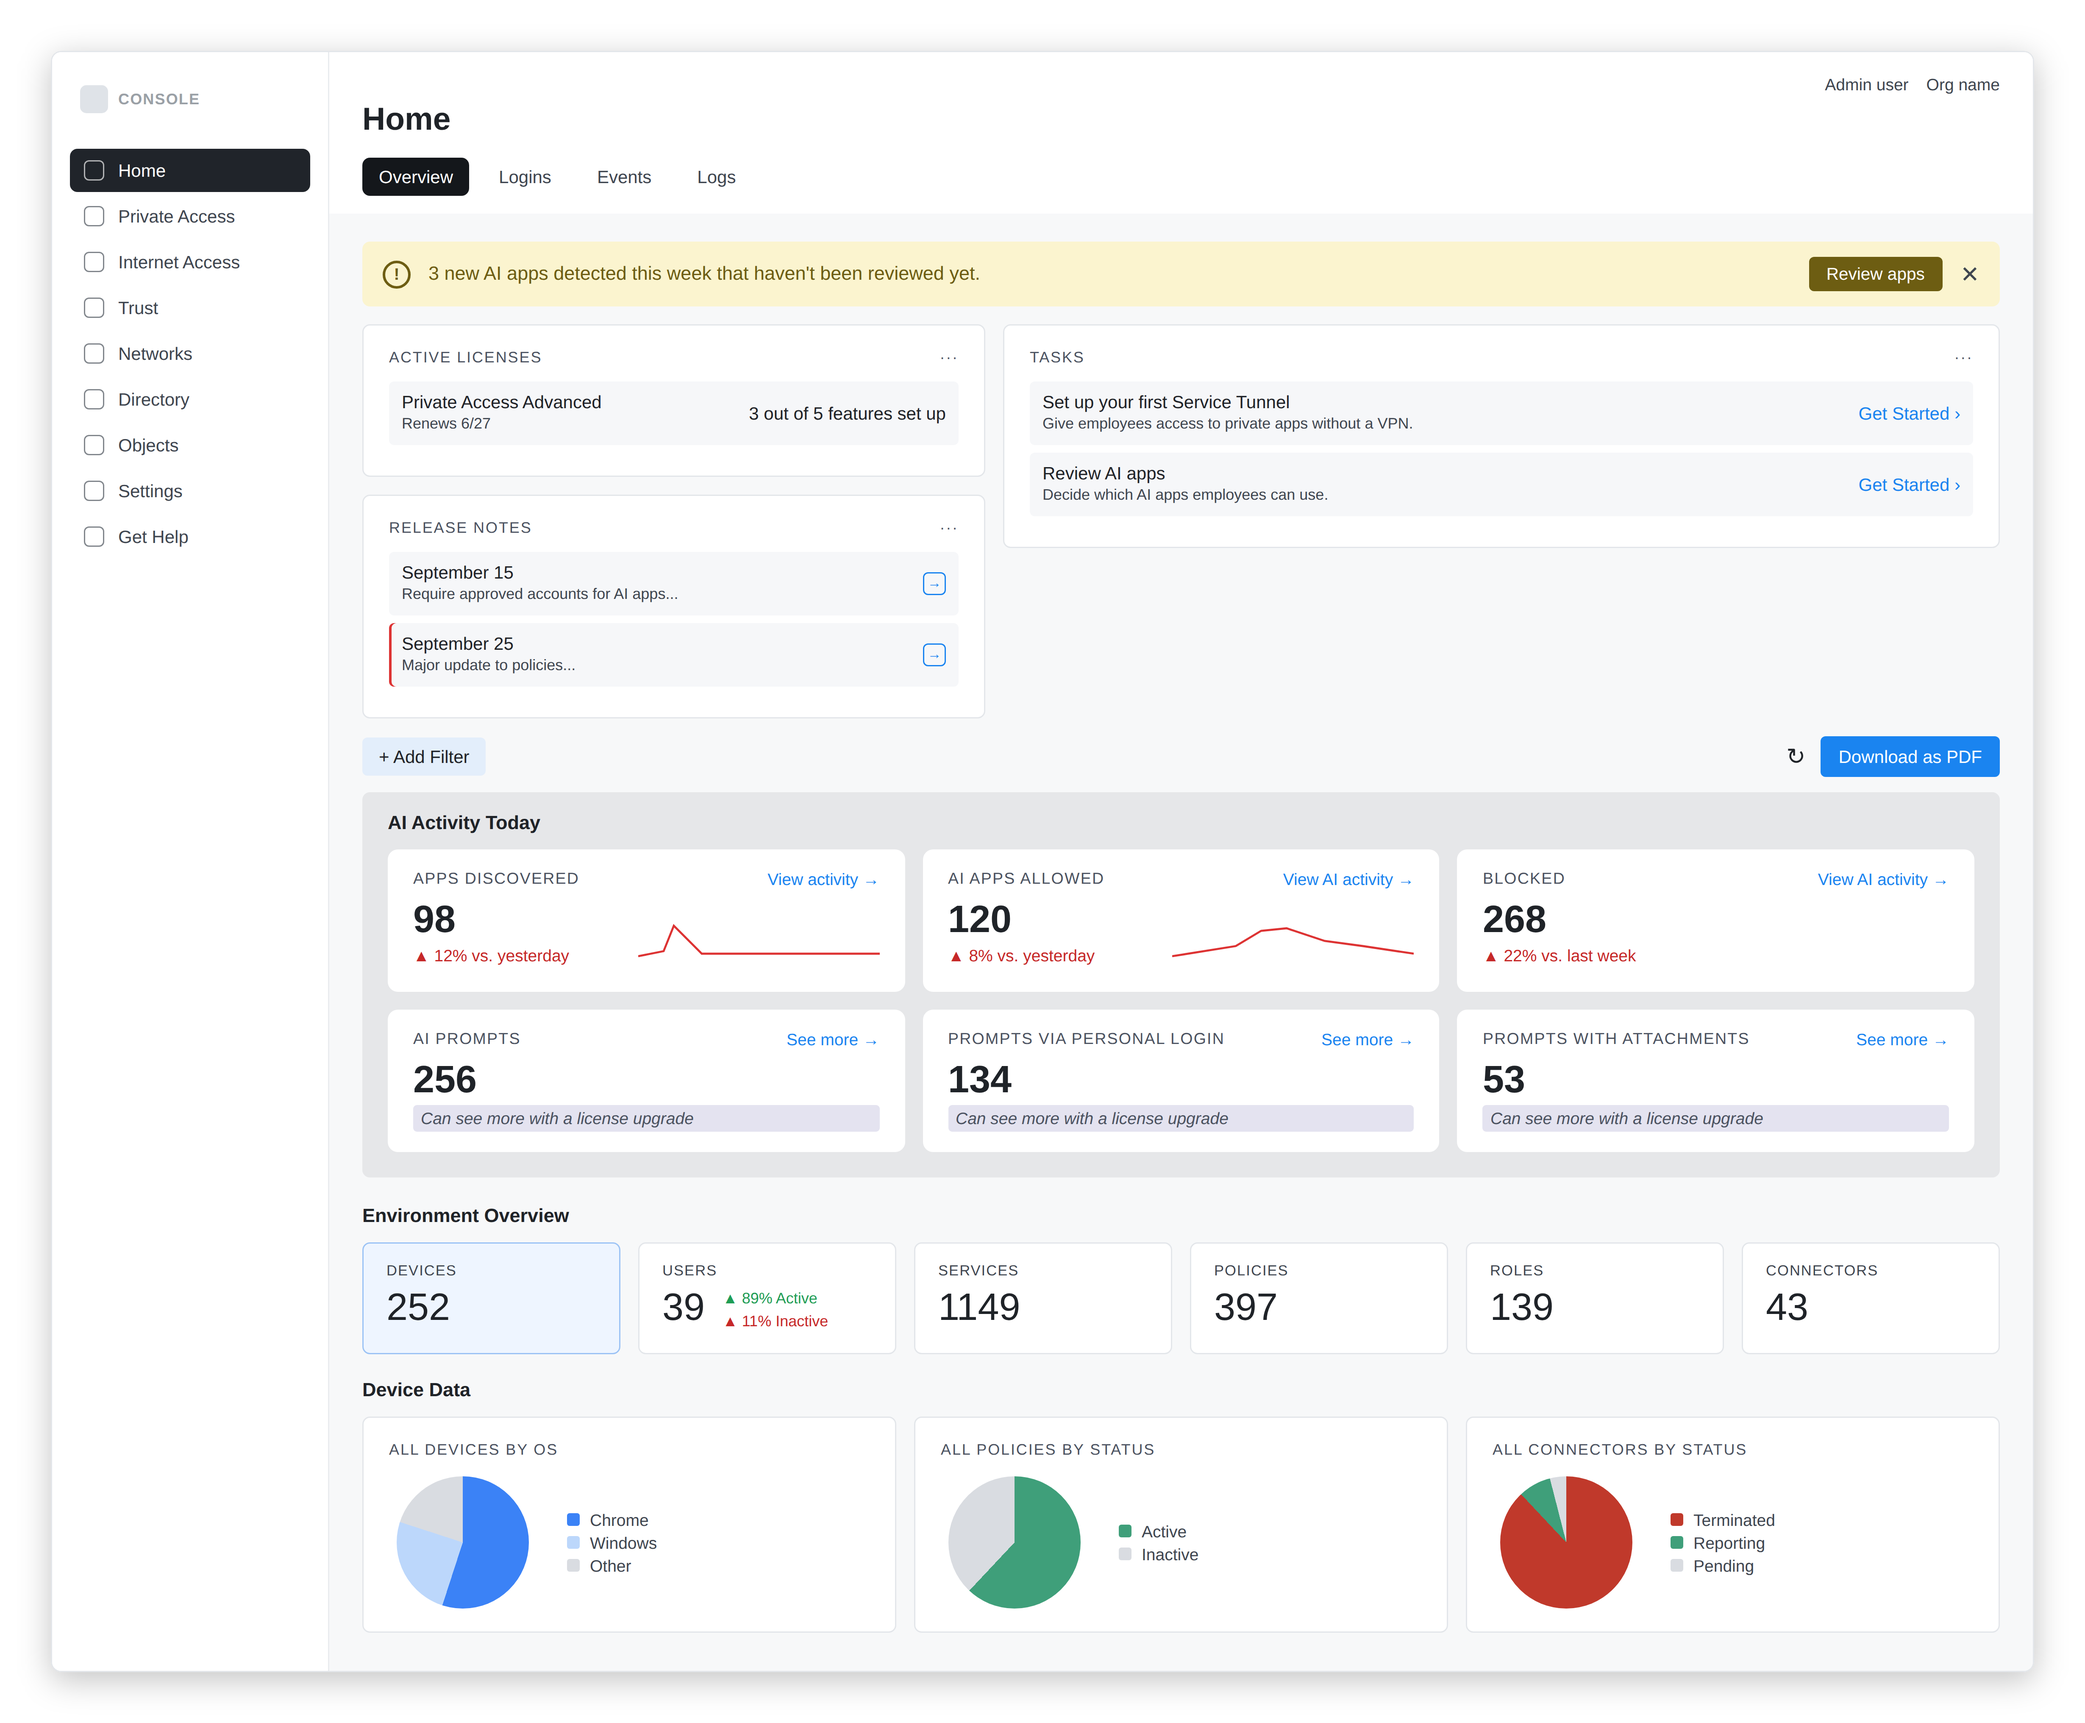
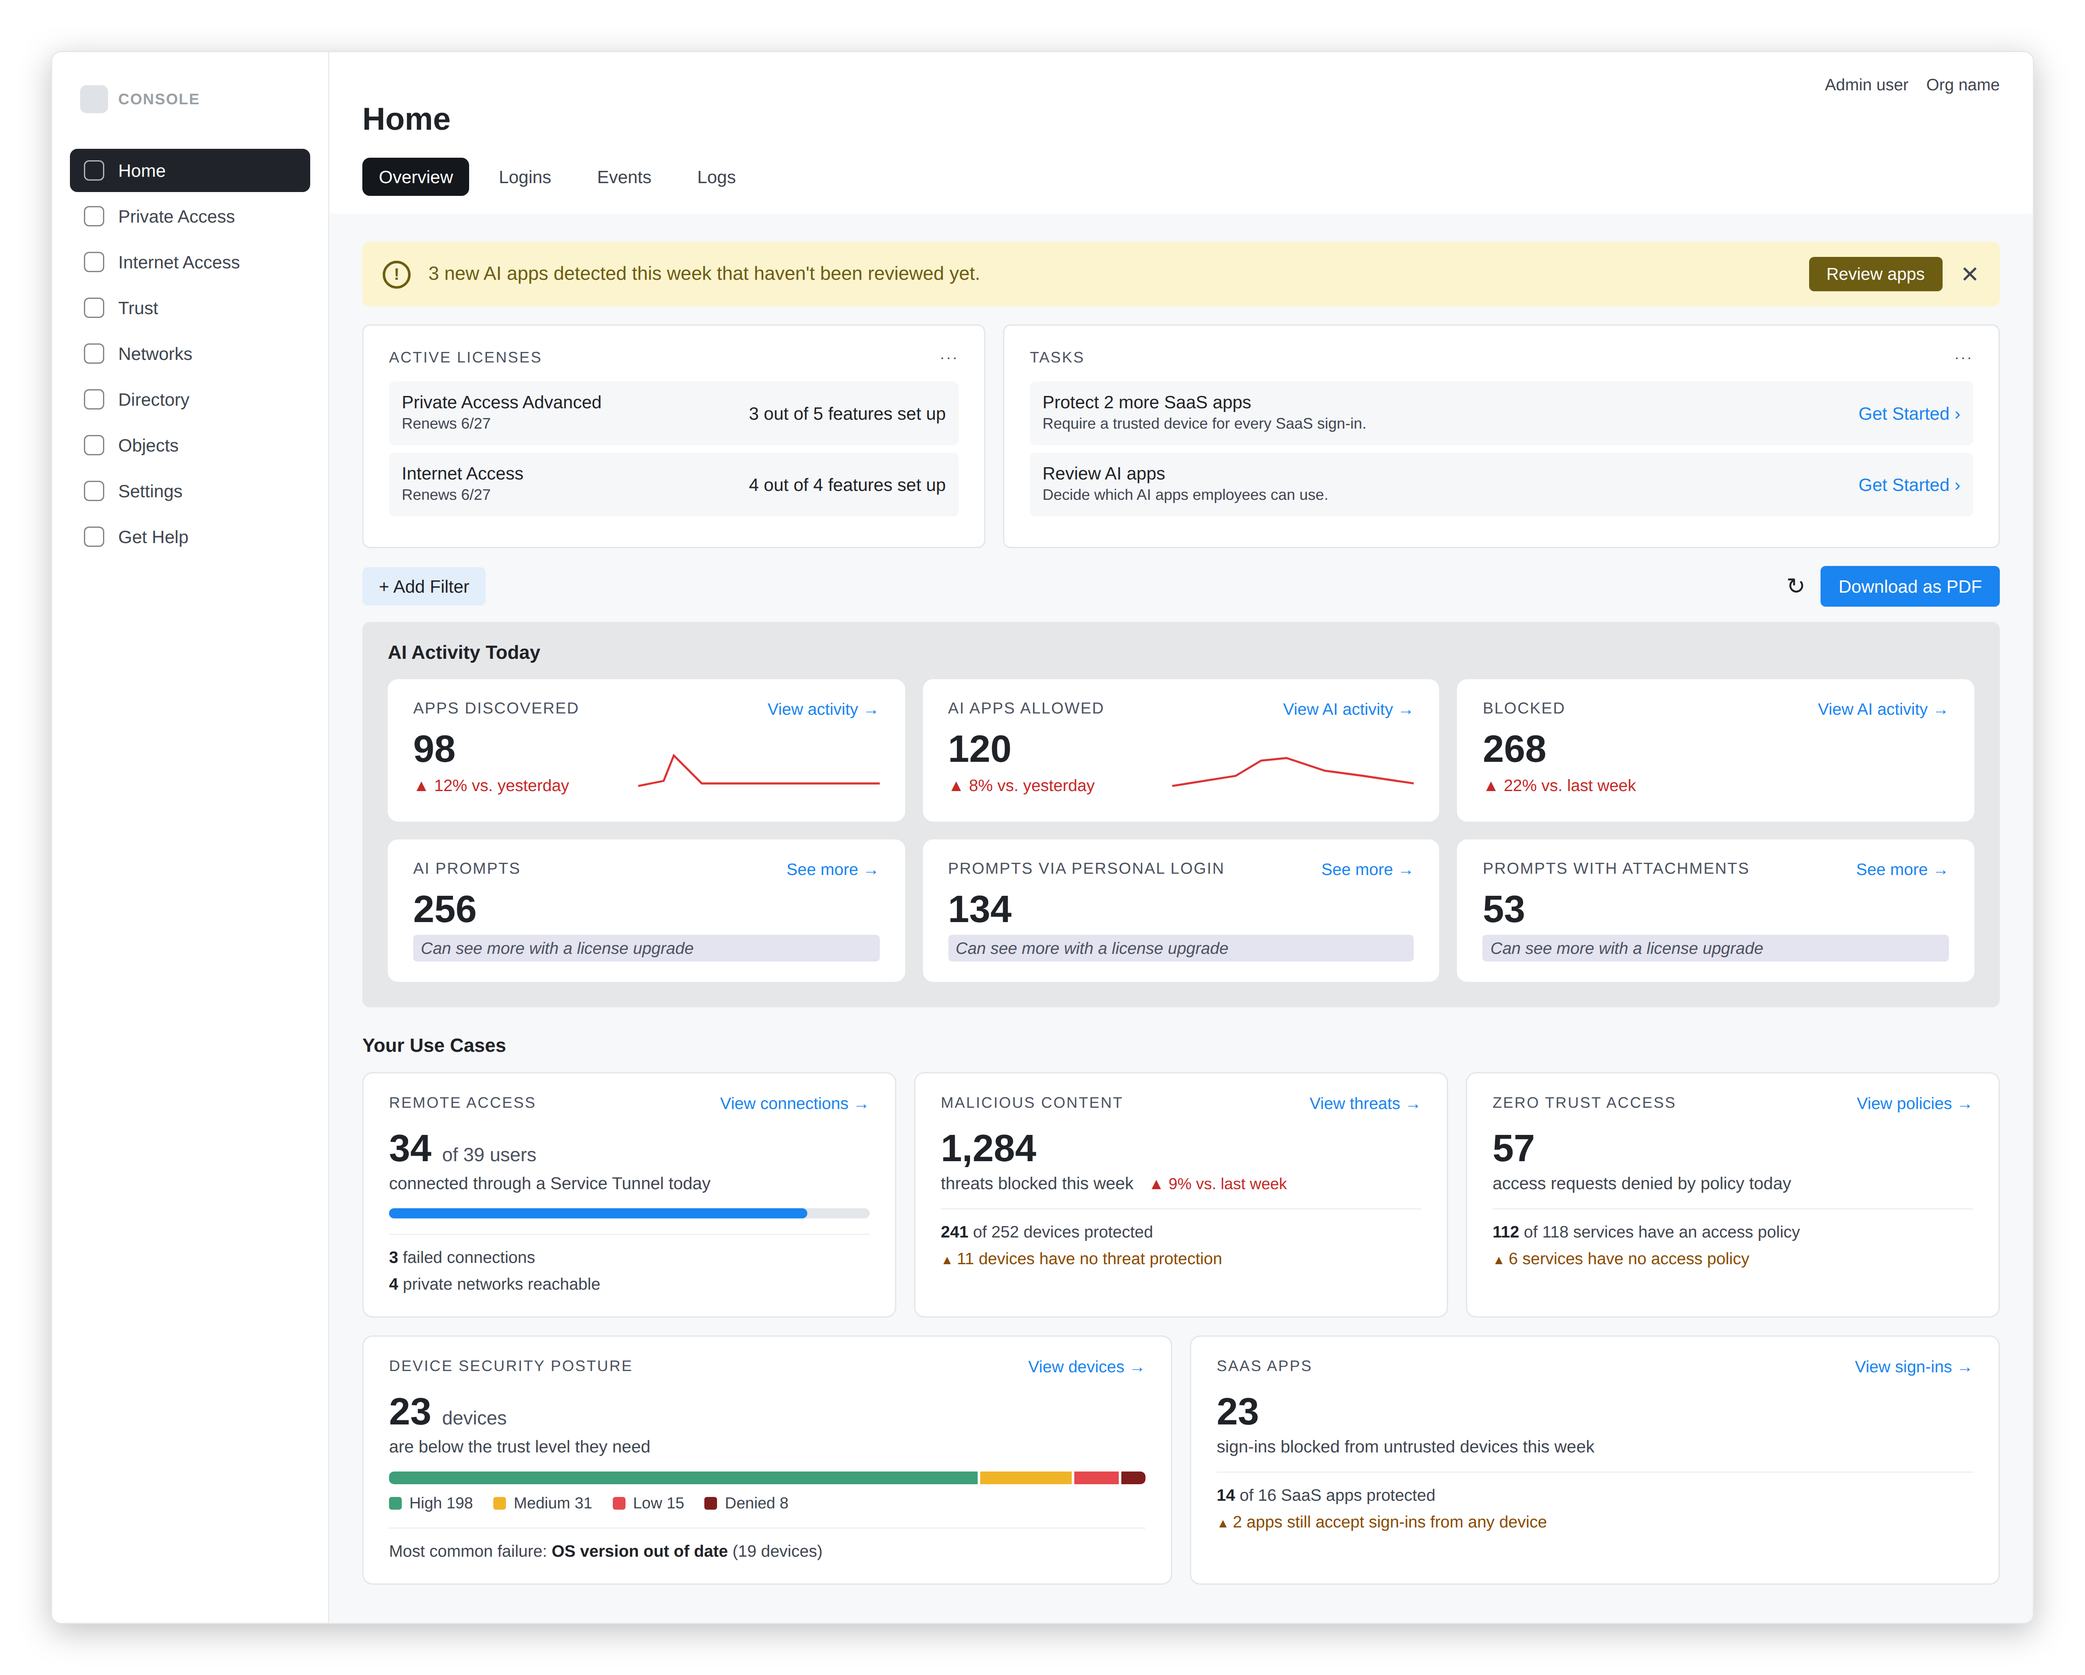
Console homepage: drop release notes, replace inventory counts with a card per use case
Claude-Session: https://claude.ai/code/session_01LSpc9GfWinUYVZHRac1AsR

diff --git a/src/components/WorkCards.js b/src/components/WorkCards.js
@@ -22,7 +22,7 @@ const SETS = {
       text: "When a website was blocked, admins could not tell which rule blocked it. I suggested a lookup tool inside the policy that shows them."},
     {to: "/content-design/console-homepage", tag: "Dashboard",
       title: "Admin console homepage", img: "/img/content-design/console-home-after.png",
-      imgAlt: "A prototype of the redesigned console homepage, with AI activity metrics above the inventory counts",
+      imgAlt: "A prototype of the redesigned console homepage, with a card of metrics for each use case",
       go: "See the before and after",
       text: "The homepage showed counts and charts that didn't tell admins anything they could act on. I chose metrics for each reason that customers buy the product."},
   ],

diff --git a/docs/content-design/console-homepage.md b/docs/content-design/console-homepage.md
@@ -11,7 +11,7 @@ sidebar_position: 4
   <p className="ctx-label">Background</p>
   <p>Cloud Secure Edge is a SonicWall service that decides whether an employee's device can connect to company apps and websites. Admins set it up and run it from a web-based admin console.</p>
   <p>The homepage is the first screen that an admin sees after they sign in. It's the natural place to answer one question. Is the product doing the job that we bought it for?</p>
-  <p>Customers buy Cloud Secure Edge for a few primary use cases. Examples are replacing a VPN, filtering web traffic, and controlling the AI apps that employees use. I worked on the redesign with the product designer. My part was to choose the metrics that show how each use case is going.</p>
+  <p>Customers buy Cloud Secure Edge for a few primary use cases. They include remote access without a VPN, blocking malicious content, zero trust access to private apps, checking device security posture, and protecting SaaS apps. I worked on the redesign with the product designer. My part was to choose the metrics that show how each use case is going.</p>
 </div>
 
 ## The problem
@@ -30,17 +30,20 @@ The charts also hid what little they showed. Legends were cut off mid-word, and 
 
 I started from the use cases instead of from the data. For each use case, I asked what an admin needs to know to decide whether it's working. I also asked what the admin should do next if it isn't.
 
-Then I chose the metrics that answer those questions. Each metric has a comparison, such as "vs. yesterday", and a link to the activity behind it. The inventory counts and charts stayed, under the heading **Environment Overview**, below the use case metrics.
+Then I chose the metrics that answer those questions. Each use case gets its own card, with a headline number, the gap that needs attention, and a link to the activity behind it. The cards replaced the inventory counts and charts.
 
-![A prototype of the redesigned homepage. An alert, licenses, tasks, and release notes are at the top. Below them, AI activity metrics come before the inventory counts and charts.](/img/content-design/console-home-after.png)
+![A prototype of the redesigned homepage. An alert, licenses, and tasks are at the top. Below them are AI activity metrics and one card for each use case.](/img/content-design/console-home-after.png)
 
-| What the admin needs to know | What the homepage shows |
+| Use case | What the homepage shows |
 |---|---|
-| Is there something to act on now? | An alert for AI apps that nobody has reviewed yet, with a button to review them |
-| Am I getting what I pay for? | Each license, its renewal date, and how many of its features are set up |
-| What should I set up next? | Tasks, each with a one-line reason and a **Get Started** link |
-| Is AI use under control? | AI apps discovered, allowed, and blocked, each compared with the day or week before |
-| What are employees sending to AI apps? | Prompts, prompts sent from personal accounts, and prompts with attachments |
+| **Remote access** | How many users connected through a Service Tunnel today, and how many connections failed |
+| **Blocking malicious content** | Threats blocked this week, and the devices that have no threat protection |
+| **Zero trust access** | Access requests denied by policy, and the services that have no access policy |
+| **Device security posture** | Devices at each trust level, how many are below the level they need, and the most common reason |
+| **Protecting SaaS apps** | Sign-ins blocked from untrusted devices, and the apps that still accept any device |
+| **AI apps** | AI apps discovered, allowed, and blocked, plus the prompts that employees send |
+
+Above the cards, an alert flags AI apps that nobody has reviewed yet. Each license shows how many of its features are set up, and the task list suggests what to set up next.
 
 Metrics that need a higher license still appear, with the note "Can see more with a license upgrade". The admin sees what they could measure, instead of an empty space.
 
